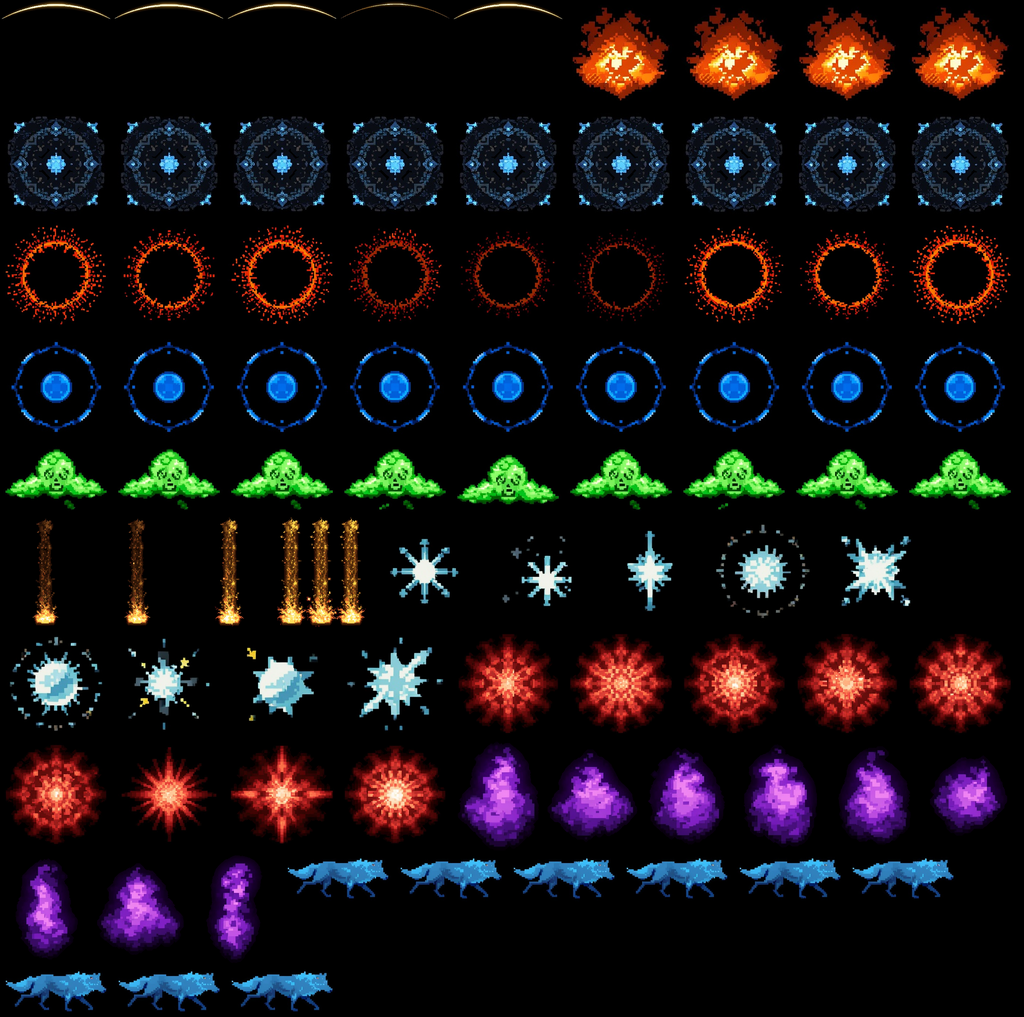
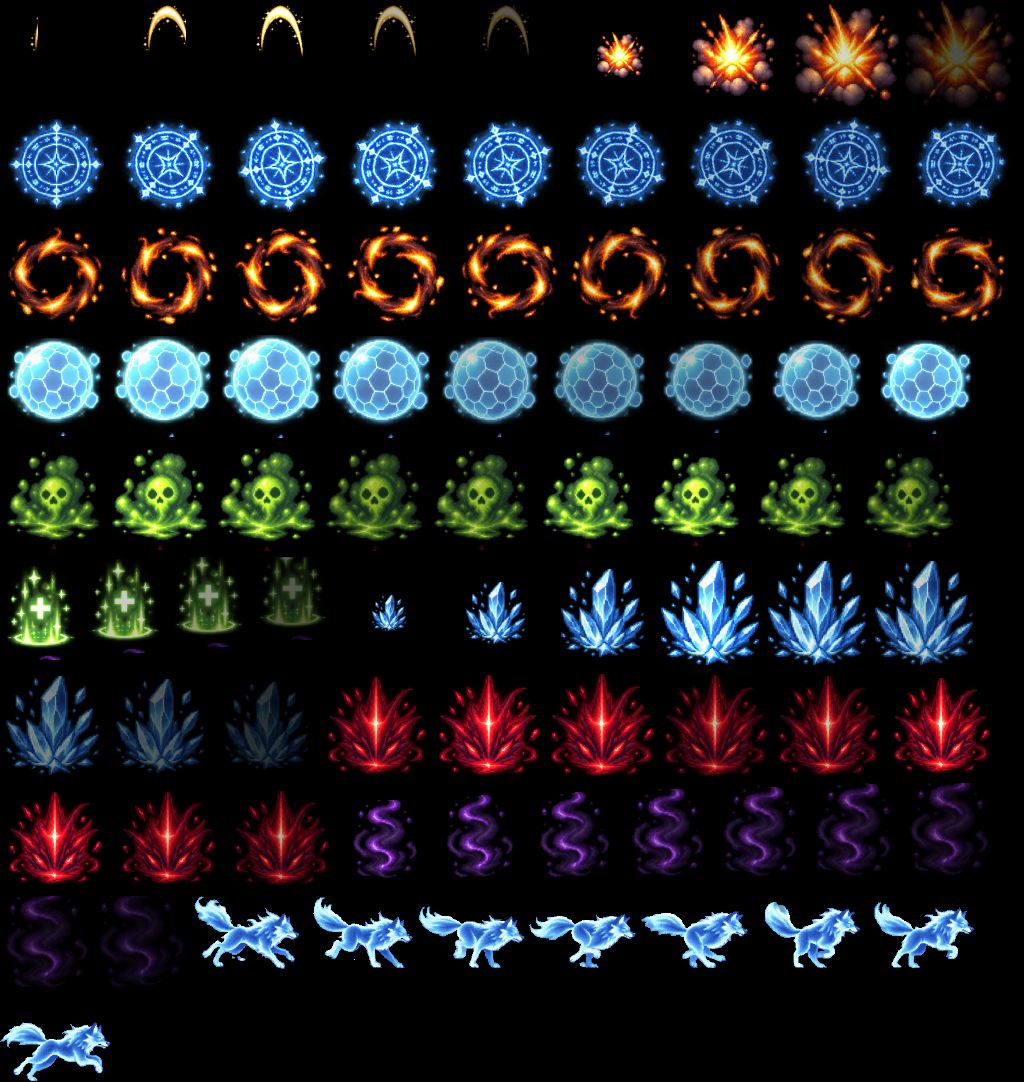
Efectos de habilidad en el estilo nuevo: los 11 del atlas (tajo, explosión, runas, fuego, escudo, veneno, curación, hielo, furia, humo y lobo espectral)
Claude-Session: https://claude.ai/code/session_01C2SB4oU3LiuVGzsNuHyfze

diff --git a/www/js/vfx_data.js b/www/js/vfx_data.js
@@ -1,3 +1,3 @@
-/* Generado por tools/art/build_vfx.py — no editar a mano. */
+/* Generado por tools/art/sc_vfx.py — no editar a mano. */
 'use strict';
-const VFX_ATLAS = {"slash":{"w":112,"h":21,"f":[[0,0],[113,0],[226,0],[339,0],[452,0]]},"explosion":{"w":112,"h":108,"f":[[565,0],[678,0],[791,0],[904,0]]},"runeBlue":{"w":112,"h":110,"f":[[0,109],[113,109],[226,109],[339,109],[452,109],[565,109],[678,109],[791,109],[904,109]]},"runeFire":{"w":112,"h":110,"f":[[0,220],[113,220],[226,220],[339,220],[452,220],[565,220],[678,220],[791,220],[904,220]]},"shield":{"w":112,"h":112,"f":[[0,331],[113,331],[226,331],[339,331],[452,331],[565,331],[678,331],[791,331],[904,331]]},"poison":{"w":112,"h":71,"f":[[0,444],[113,444],[226,444],[339,444],[452,444],[565,444],[678,444],[791,444],[904,444]]},"heal":{"w":91,"h":112,"f":[[0,516],[92,516],[184,516],[276,516]]},"ice":{"w":112,"h":110,"f":[[368,516],[481,516],[594,516],[707,516],[820,516],[0,629],[113,629],[226,629],[339,629]]},"rage":{"w":112,"h":109,"f":[[452,629],[565,629],[678,629],[791,629],[904,629],[0,740],[113,740],[226,740],[339,740]]},"smoke":{"w":93,"h":112,"f":[[452,740],[546,740],[640,740],[734,740],[828,740],[922,740],[0,853],[94,853],[188,853]]},"wolf":{"w":112,"h":51,"f":[[282,853],[395,853],[508,853],[621,853],[734,853],[847,853],[0,966],[113,966],[226,966]]}};
+const VFX_ATLAS = {"slash":{"w":112,"h":62,"f":[[0,0],[113,0],[226,0],[339,0],[452,0]]},"explosion":{"w":112,"h":110,"f":[[565,0],[678,0],[791,0],[904,0]]},"runeBlue":{"w":112,"h":107,"f":[[0,111],[113,111],[226,111],[339,111],[452,111],[565,111],[678,111],[791,111],[904,111]]},"runeFire":{"w":112,"h":111,"f":[[0,219],[113,219],[226,219],[339,219],[452,219],[565,219],[678,219],[791,219],[904,219]]},"shield":{"w":108,"h":112,"f":[[0,331],[109,331],[218,331],[327,331],[436,331],[545,331],[654,331],[763,331],[872,331]]},"poison":{"w":106,"h":112,"f":[[0,444],[107,444],[214,444],[321,444],[428,444],[535,444],[642,444],[749,444],[856,444]]},"heal":{"w":83,"h":112,"f":[[0,557],[84,557],[168,557],[252,557]]},"ice":{"w":106,"h":112,"f":[[336,557],[443,557],[550,557],[657,557],[764,557],[871,557],[0,670],[107,670],[214,670]]},"rage":{"w":112,"h":111,"f":[[321,670],[434,670],[547,670],[660,670],[773,670],[886,670],[0,783],[113,783],[226,783]]},"smoke":{"w":93,"h":112,"f":[[339,783],[433,783],[527,783],[621,783],[715,783],[809,783],[903,783],[0,896],[94,896]]},"wolf":{"w":112,"h":73,"f":[[188,896],[301,896],[414,896],[527,896],[640,896],[753,896],[866,896],[0,1009]]}};

diff --git a/tools/art/sc_vfx.py b/tools/art/sc_vfx.py
@@ -1,0 +1,119 @@
+"""Fendaria — atlas de efectos (img/fx/vfx.png + js/vfx_data.js) a partir del arte de SpriteCook.
+
+Los efectos se pintaron quietos (hojas vfxA/vfxB de sc_out); aquí se les dan los fotogramas girándolos,
+haciéndolos crecer, subir o apagarse. El lobo trae su propia animación de carrera (vfx_wolf_tira.png).
+Mismos nombres y número de fotogramas que el atlas anterior (tools/art/build_vfx.py), así que el juego no cambia.
+Uso: python3 tools/art/sc_vfx.py
+"""
+import json, math, os
+import numpy as np
+from PIL import Image, ImageEnhance
+
+HERE = os.path.dirname(os.path.abspath(__file__)); OUT = os.path.join(HERE, 'sc_out'); WWW = os.path.join(HERE, '..', '..', 'www')
+CELL = 112  # lado mayor de cada fotograma en el atlas
+
+
+def tight(im):
+    return im.crop(im.getbbox())
+
+
+def grid_cells(path, n=3):
+    """Efectos de una hoja en cuadrícula n×n (por filas), recortados a su contenido."""
+    im = Image.open(path).convert('RGBA'); a = np.array(im)[..., 3] > 40
+    cw, ch = im.width / n, im.height / n; out = []
+    for r in range(n):
+        for c in range(n):
+            x0, y0 = int(c * cw), int(r * ch); m = a[y0:int(y0 + ch), x0:int(x0 + cw)]
+            if m.sum() < cw * ch * 0.02: continue
+            ys, xs = np.nonzero(m); out.append(im.crop((x0 + xs.min(), y0 + ys.min(), x0 + xs.max() + 1, y0 + ys.max() + 1)))
+    return out
+
+
+def fit(im, side=CELL):
+    k = side / max(im.size)
+    return im.resize((max(1, round(im.width * k)), max(1, round(im.height * k))), Image.BOX)
+
+
+def on_black(im):
+    """El juego dibuja los efectos sumando luz: fondo negro y el color multiplicado por su opacidad."""
+    a = np.array(im.convert('RGBA')).astype(np.float32)
+    rgb = a[..., :3] * (a[..., 3:4] / 255.0)
+    return Image.fromarray(rgb.clip(0, 255).astype(np.uint8), 'RGB')
+
+
+def frame(base, size, scale=1.0, rot=0.0, dy=0.0, bright=1.0, alpha=1.0):
+    """Un fotograma: el efecto escalado, girado y desplazado dentro de una celda de tamaño fijo."""
+    W, H = size; im = base
+    if scale != 1.0: im = im.resize((max(1, round(im.width * scale)), max(1, round(im.height * scale))), Image.BOX)
+    if rot: im = im.rotate(rot, resample=Image.BICUBIC, expand=True)
+    if bright != 1.0: im = Image.merge('RGBA', (*ImageEnhance.Brightness(im.convert('RGB')).enhance(bright).split(), im.getchannel('A')))
+    if alpha != 1.0: im.putalpha(im.getchannel('A').point(lambda v: int(v * alpha)))
+    c = Image.new('RGBA', size)
+    c.alpha_composite(im, ((W - im.width) // 2, int((H - im.height) // 2 + dy)))
+    return on_black(c)
+
+
+def anim(name, base):
+    b = fit(base, CELL - 8); S = (b.width + 8, b.height + 8)  # celda fija por efecto: cabe el giro (efectos redondos) y el desplazamiento
+    W, H = S
+    if name == 'explosion':  # estalla: crece rápido y se apaga
+        return [frame(b, S, s, bright=br, alpha=al) for s, br, al in [(0.45, 1.5, 1), (0.8, 1.3, 1), (1.0, 1.0, 0.85), (1.05, 0.7, 0.55)]]
+    if name in ('runeBlue', 'runeFire'):  # gira y late
+        return [frame(b, S, 0.92, rot=-i * 40 if name == 'runeBlue' else i * 40, bright=1 + 0.25 * math.sin(i / 9 * 6.283)) for i in range(9)]
+    if name == 'shield':  # burbuja que respira y brilla
+        return [frame(b, S, 0.94 + 0.05 * math.sin(i / 9 * 6.283), bright=1 + 0.3 * math.sin(i / 9 * 6.283 + 1)) for i in range(9)]
+    if name in ('poison', 'rage'):  # burbujea / arde: pulso y parpadeo
+        return [frame(b, S, 0.94 + 0.05 * math.sin(i / 9 * 6.283), bright=1 + 0.3 * math.sin(i / 9 * 12.566)) for i in range(9)]
+    if name == 'heal':  # sube y se desvanece (el juego usa los 3 primeros)
+        return [frame(b, S, 0.9, dy=-i * H * 0.06, bright=1.2 - i * 0.1, alpha=1 - i * 0.2) for i in range(4)]
+    if name == 'ice':  # los cristales brotan y se rompen
+        k = [0.35, 0.6, 0.85, 1.0, 1.0, 1.0, 0.95, 0.9, 0.85]; a = [1, 1, 1, 1, 0.95, 0.85, 0.65, 0.45, 0.25]
+        return [frame(b, S, k[i], bright=1.3 if i == 3 else 1, alpha=a[i]) for i in range(9)]
+    if name == 'smoke':  # sube girando y se deshace
+        return [frame(b, S, 0.75 + i * 0.03, rot=math.sin(i) * 8, dy=-i * 2, alpha=1 - i * 0.09) for i in range(9)]
+    if name == 'slash':  # el tajo aparece de un lado al otro y se apaga
+        out = []
+        for i in range(5):
+            m = Image.new('L', b.size, 0); cut = int(b.width * min(1, (i + 1) / 3))
+            m.paste(255, (0, 0, cut, b.height)); im = b.copy(); im.putalpha(Image.fromarray(np.minimum(np.array(b.getchannel('A')), np.array(m))))
+            out.append(frame(im, S, bright=1.3 if i == 2 else 1, alpha=[1, 1, 1, 0.7, 0.35][i]))
+        return out
+    raise KeyError(name)
+
+
+def wolf_frames():
+    sh = Image.open(os.path.join(OUT, 'vfx_wolf_tira.png')).convert('RGBA'); fw = sh.height
+    fr = [sh.crop((i * fw, 0, (i + 1) * fw, fw)) for i in range(sh.width // fw)]
+    box = None
+    for f in fr:  # caja común: el lobo no tiembla entre fotogramas
+        bb = f.getbbox(); box = bb if box is None else (min(box[0], bb[0]), min(box[1], bb[1]), max(box[2], bb[2]), max(box[3], bb[3]))
+    return [on_black(fit(f.crop(box))) for f in fr]
+
+
+def main():
+    names = json.load(open(os.path.join(OUT, 'vfx_nombres.json')))
+    A = grid_cells(os.path.join(OUT, 'vfxA_raw.png'))
+    assert len(A) == len(names['A']), len(A)
+    B = Image.open(os.path.join(OUT, 'vfxB_raw.png')).convert('RGBA')
+    slash = tight(B.crop((B.width * 3 // 5, 0, B.width, B.height))).rotate(90, expand=True)  # media luna tumbada, como la del atlas anterior
+    stills = dict(zip(names['A'], A)); stills['slash'] = slash
+    order = ['slash', 'explosion', 'runeBlue', 'runeFire', 'shield', 'poison', 'heal', 'ice', 'rage', 'smoke', 'wolf']
+    placed = [(n, wolf_frames() if n == 'wolf' else anim(n, stills[n])) for n in order]
+    W = 1024; x = y = rowh = 0; data = {}; rects = []
+    for name, fr in placed:
+        for f in fr:
+            if x + f.width + 1 > W: x = 0; y += rowh + 1; rowh = 0
+            rects.append((name, f, x, y)); x += f.width + 1; rowh = max(rowh, f.height)
+    atlas = Image.new('RGB', (W, y + rowh), (0, 0, 0))
+    for name, f, px, py in rects:
+        atlas.paste(f, (px, py)); d = data.setdefault(name, {'w': f.width, 'h': f.height, 'f': []}); d['f'].append([px, py])
+    atlas.save(os.path.join(WWW, 'img/fx/vfx.png'), optimize=True)
+    with open(os.path.join(WWW, 'js/vfx_data.js'), 'w') as fh:
+        fh.write('/* Generado por tools/art/sc_vfx.py — no editar a mano. */\n')
+        fh.write("'use strict';\n")
+        fh.write('const VFX_ATLAS = ' + json.dumps(data, separators=(',', ':')) + ';\n')
+    print({k: (v['w'], v['h'], len(v['f'])) for k, v in data.items()}, 'atlas', atlas.size)
+
+
+if __name__ == '__main__':
+    main()

diff --git a/tools/art/sc_out/ASSETS.md b/tools/art/sc_out/ASSETS.md
@@ -64,3 +64,13 @@
 - iconos1_1.png (32×32) → e452ec8e-384e-4832-b76e-3510a8c87626
 - iconos2_1.png (512×512) → b381b599-c00f-4ac9-ba06-03f7c064bcd6
 - iconos3_1.png (32×32) → 5fda8a78-389c-4446-b124-abe6360097cc
+
+## vfx_lote.json — gpt-image-2.5-sunburst, estilo Kara 6
+- vfxA_1.png (244×244) → ee744536-59b8-49b3-a23f-da984937c47d
+- vfxB_1.png (244×244) → 96d9b283-dc6e-49e7-9789-882db3979953
+
+## mons_base.json — gpt-image-2.5-sunburst, estilo Kara 6
+- mon_tofu_1.png (166×166) → 6e595f01-9e47-425f-afd7-b322072714b2
+- mon_arakne_1.png (114×114) → a96f09f7-153d-408b-9bca-591dc282f1f7
+- mon_craqueleur_1.png (126×126) → c57c53fa-b23c-4241-992a-20ec20425863
+- mon_bouftouRoyal_1.png (328×328) → 5ddb5201-1b7d-40bb-9581-4e7a4ec4c339
